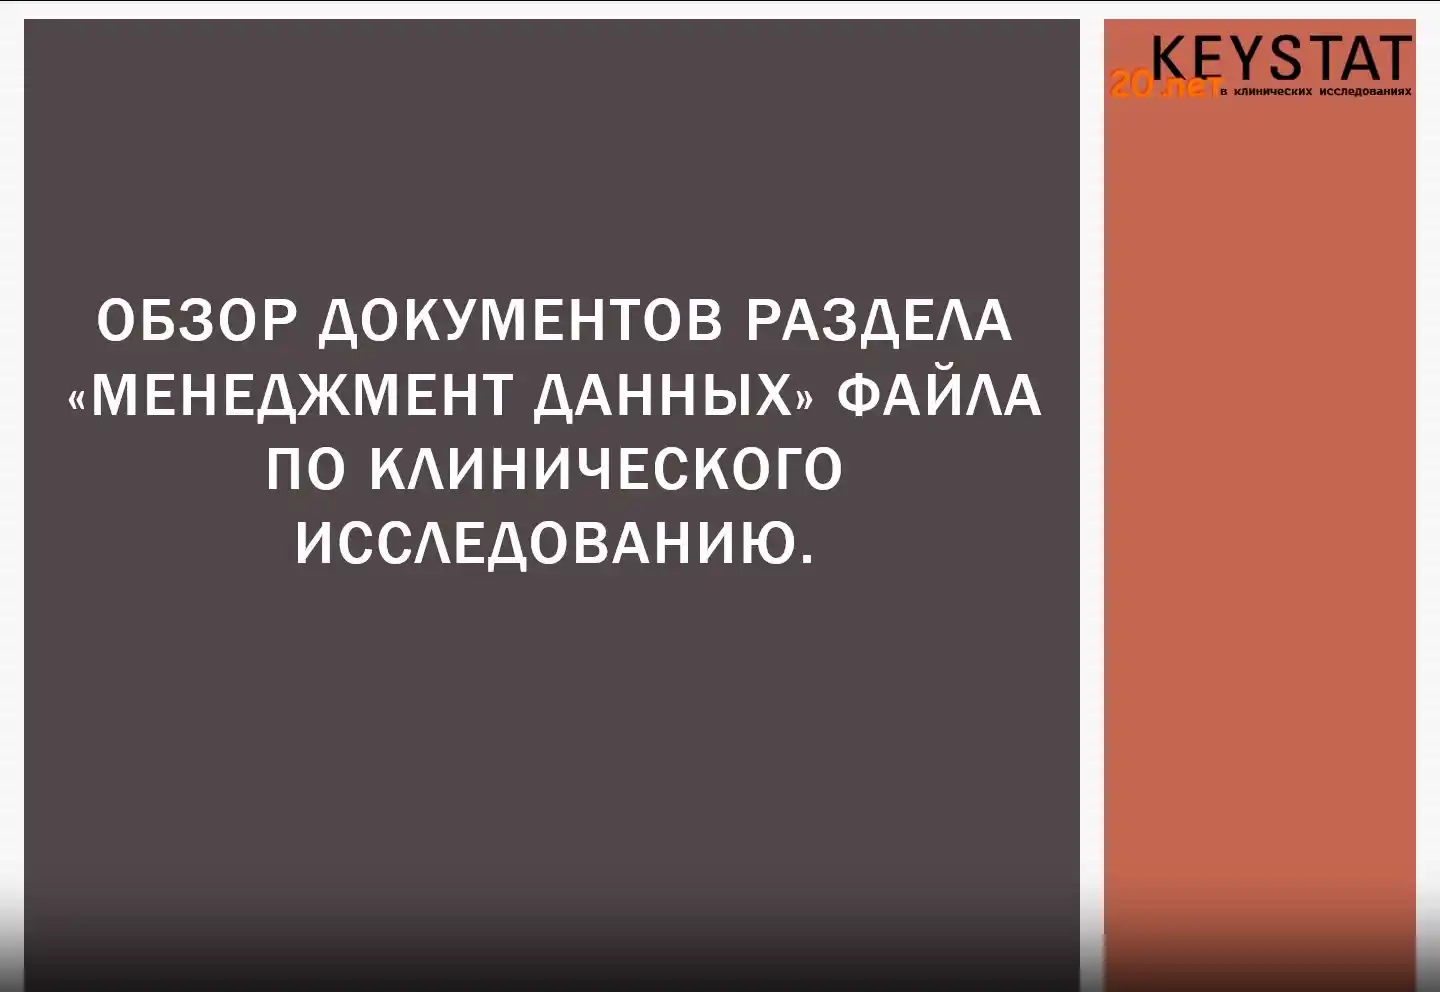
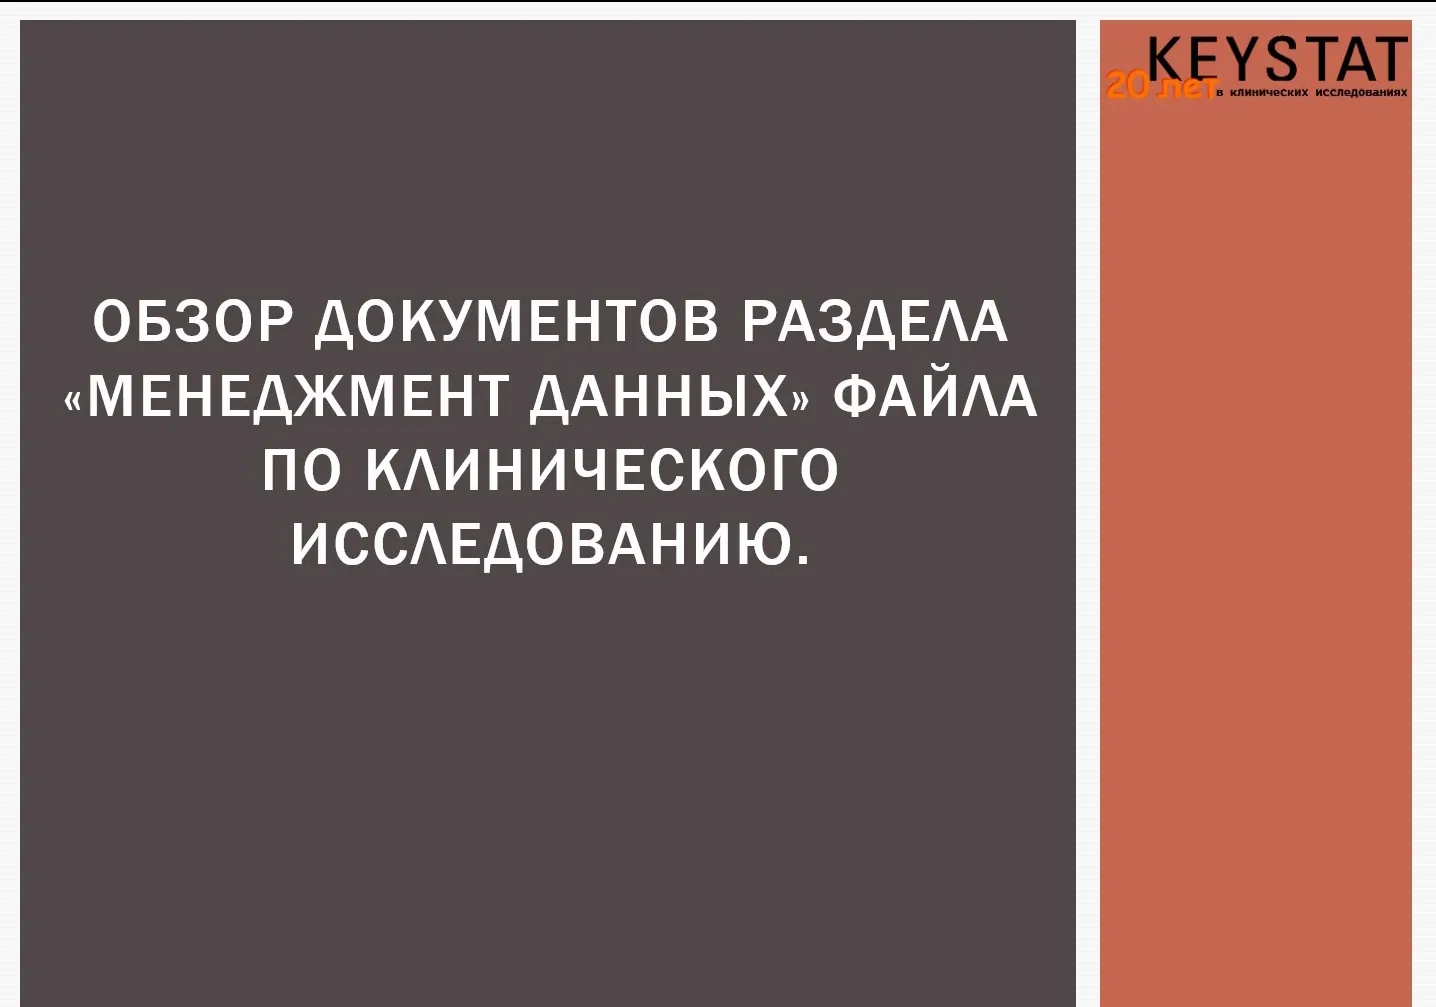
upd

Changed region(s): [[0.0306, 0.2812, 0.7354, 0.5938], [0.0, 0.9062, 1.0, 1.0], [0.766, 0.0312, 0.9499, 0.0938]]

diff --git a/index.html b/index.html
@@ -42,7 +42,7 @@
                                 <div class="overlay-1"></div>
                                 <div class="caption-wrapper">
                                     <div class="slide-caption">
-                                        <h1><img  loading="lazy" class="keystat-logo pl-media" src="images\keystat-logo20.png" alt="Keystat. 20 лет в клинических исследованиях"></h1>
+                                        <h1><img class="keystat-logo pl-media" src="images\keystat-logo20.png" alt="Keystat. 20 лет в клинических исследованиях"></h1>
                                         <div class="about-wrapper">
                                             <div class="description-item">
                                                 <p class="font-color orng italic">РАБОТАЕТ</p>
@@ -744,7 +744,7 @@
                         <div class="col-md-3 col-sm-6 col-xs-6 col-ts-12">
                             <article class="animated" data-animation="fadeInLeft">
                                 <figure class="image-container">
-                                    <a href="video\video_1.mp4" target="_blank">
+                                    <a href="https://ds2.keystatsolutions.com:5001/vs/sharing/Hffsy1W2#!bW92aWUtMw==" target="_blank">
                                         <img alt="" class="img-responsive" src="images\videos-preview\1.webp">
                                       </a>
                                 </figure>                           
@@ -754,8 +754,8 @@
                         <div class="col-md-3 col-sm-6 col-xs-6 col-ts-12">
                             <article class="animated" data-animation="fadeInLeft">
                                 <figure class="image-container">
-                                    <a href="video\video_1.mp4" target="_blank">
-                                        <img alt="" class="img-responsive" src="images\videos-preview\1.webp">
+                                    <a href="https://ds2.keystatsolutions.com:5001/vs/sharing/Hffsy1W2#!bW92aWUtNg==" target="_blank">
+                                        <img alt="" class="img-responsive" src="images\videos-preview\2.webp">
                                       </a>
                                 </figure>        
                             </article>
@@ -764,8 +764,8 @@
                         <div class="col-md-3 col-sm-6 col-xs-6 col-ts-12">
                             <article class="animated" data-animation="fadeInLeft">
                                 <figure class="image-container">
-                                    <a href="video\video_1.mp4" target="_blank">
-                                        <img alt="" class="img-responsive" src="images\videos-preview\1.webp">
+                                    <a href="https://ds2.keystatsolutions.com:5001/vs/sharing/Hffsy1W2#!bW92aWUtNQ==" target="_blank">
+                                        <img alt="" class="img-responsive" src="images\videos-preview\3.webp">
                                       </a>
                                     
                                 </figure>
@@ -775,8 +775,8 @@
                         <div class="col-md-3 col-sm-6 col-xs-6 col-ts-12">
                             <article class="animated" data-animation="fadeInLeft">
                                 <figure class="image-container">
-                                    <a href="video\video_1.mp4" target="_blank">
-                                        <img alt="" class="img-responsive" src="images\videos-preview\1.webp">
+                                    <a href="https://ds2.keystatsolutions.com:5001/vs/sharing/Hffsy1W2#!bW92aWUtNA==" target="_blank">
+                                        <img alt="" class="img-responsive" src="images\videos-preview\4.webp">
                                       </a>                                    
                                 </figure>
                              </article>
@@ -784,21 +784,21 @@
                         <div class="col-md-3 col-sm-6 col-xs-6 col-ts-12">
                         <article class="animated" data-animation="fadeInLeft">
                             <figure class="image-container">
-                                <a href="video\video_1.mp4" target="_blank">
-                                    <img alt="" class="img-responsive" src="images\videos-preview\1.webp">
+                                <a href="https://ds2.keystatsolutions.com:5001/vs/sharing/Hffsy1W2#!bW92aWUtMg==" target="_blank">
+                                    <img alt="" class="img-responsive" src="images\videos-preview\5.webp">
                                     </a>
                             </figure>
                         </article>
                         </div>
-            <div class="col-md-3 col-sm-6 col-xs-6 col-ts-12">
-                <article class="animated" data-animation="fadeInLeft">
-                    <figure class="image-container">
-                        <a href="video\video_1.mp4" target="_blank">
-                            <img alt="" class="img-responsive" src="images\videos-preview\1.webp">
-                        </a>                
-                    </figure>
-                </article>
-                </div>
+                        <div class="col-md-3 col-sm-6 col-xs-6 col-ts-12">
+                            <article class="animated" data-animation="fadeInLeft">
+                                <figure class="image-container">
+                                    <a href="https://ds2.keystatsolutions.com:5001/vs/sharing/Hffsy1W2#!bW92aWUtMQ==" target="_blank">
+                                        <img alt="" class="img-responsive" src="images\videos-preview\6.webp">
+                                    </a>                
+                                </figure>
+                            </article>
+                            </div>
                     </div>
                 </div>
                 <!-- end container-->

diff --git a/js/filter.js b/js/filter.js
@@ -10,7 +10,7 @@ var years=["За всё время",2002,2003,2004,2005,2006,2007,2008,2009,2010
                 </label>`))});else{var i=e.find(function(e){return e.name===a}),n=i?Object.keys(i.phases).map(Number):[];$.each(n,function(e,a){t.append($(`<label class="control-btn control-btn-years"> 
                     ${a}
                    <input type="radio" name="yearRadio" value="${a}" />
-                </label>`))})}}function update(e,a){void 0===a&&(a=years[0]),$(".controls.year-buttons .control-btn-years").removeClass("active"),$(`.controls.year-buttons .control-btn-years input[value="${a}"]`).parent().addClass("active"),$(".projects-container").html("");var t=file1.find(function(a){return a.name===e});if("За всё время"===a&&t)for(var i in t.phases){let n=t.phases[i],s;"I"==n.title?s=$imgPath="images/phases/1.png":"II"==n.title?s=$imgPath="images/phases/2.png":"III"==n.title?s=$imgPath="images/phases/3.png":"IV"==n.title&&(s=$imgPath="images/phases/4.png"),$(".projects-container").append(`
+                </label>`))})}}function update(e,a){void 0===a&&(a=years[0]),$(".controls.year-buttons .control-btn-years").removeClass("active"),$(`.controls.year-buttons .control-btn-years input[value="${a}"]`).parent().addClass("active"),$(".projects-container").html("");var t=file1.find(function(a){return a.name===e});if("За всё время"===a&&t)for(var i in t.phases){let n=t.phases[i],s;"I"==n.title?s=$imgPath="images/phases/1.webp":"II"==n.title?s=$imgPath="images/phases/2.webp":"III"==n.title?s=$imgPath="images/phases/3.webp":"IV"==n.title&&(s=$imgPath="images/phases/4.webp"),$(".projects-container").append(`
                 <article class="project-item">
                     <div class="popup">
                         <figure>
@@ -25,7 +25,7 @@ var years=["За всё время",2002,2003,2004,2005,2006,2007,2008,2009,2010
                         </figure>
                     </div>
                 </article>
-            `).hide().fadeIn(200)}else{var o=file2.find(function(t){return t.phases[a]&&t.name===e}),r=o?o.phases[a]:file1.find(a=>a.name===e);if(r)for(var i in r){let l=r[i],c;"I"==l.title?c=$imgPath="images/phases/1.png":"II"==l.title?c=$imgPath="images/phases/2.png":"III"==l.title?c=$imgPath="images/phases/3.png":"IV"==l.title&&(c=$imgPath="images/phases/4.png"),$(".projects-container").append(`
+            `).hide().fadeIn(200)}else{var o=file2.find(function(t){return t.phases[a]&&t.name===e}),r=o?o.phases[a]:file1.find(a=>a.name===e);if(r)for(var i in r){let l=r[i],c;"I"==l.title?c=$imgPath="images/phases/1.webp":"II"==l.title?c=$imgPath="images/phases/2.webp":"III"==l.title?c=$imgPath="images/phases/3.webp":"IV"==l.title&&(c=$imgPath="images/phases/4.webp"),$(".projects-container").append(`
                     <article class="project-item">
                         <div class="popup">
                             <figure>
